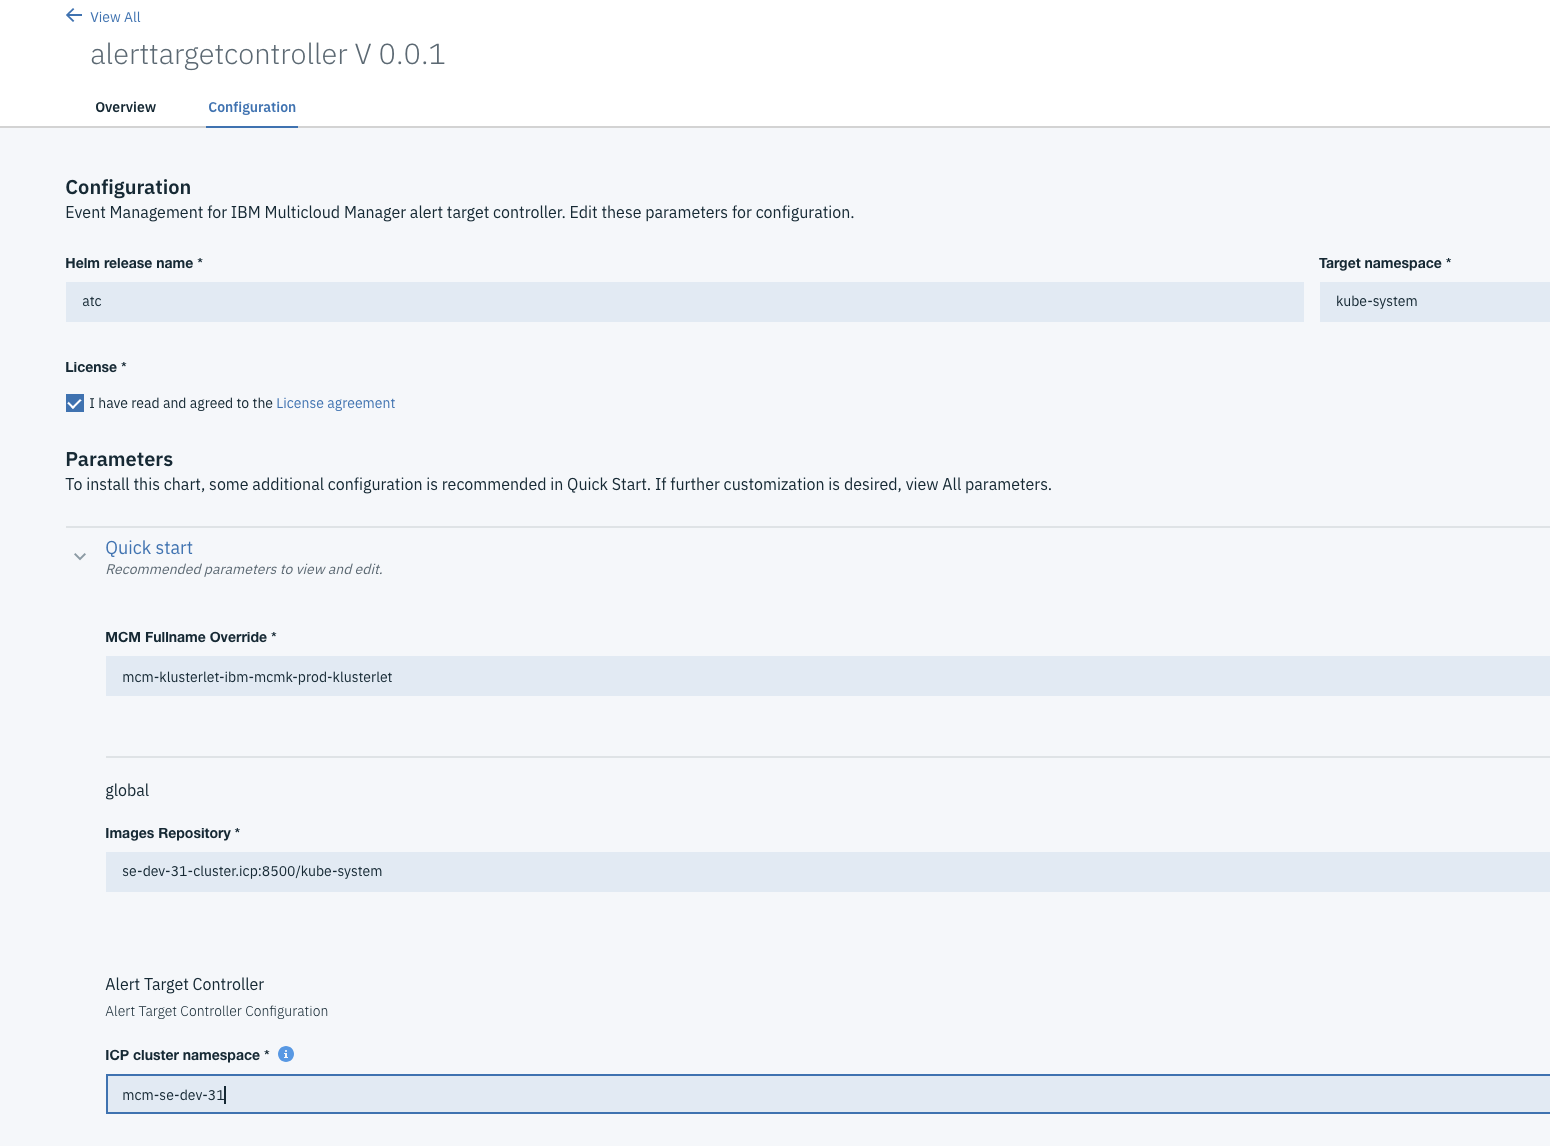
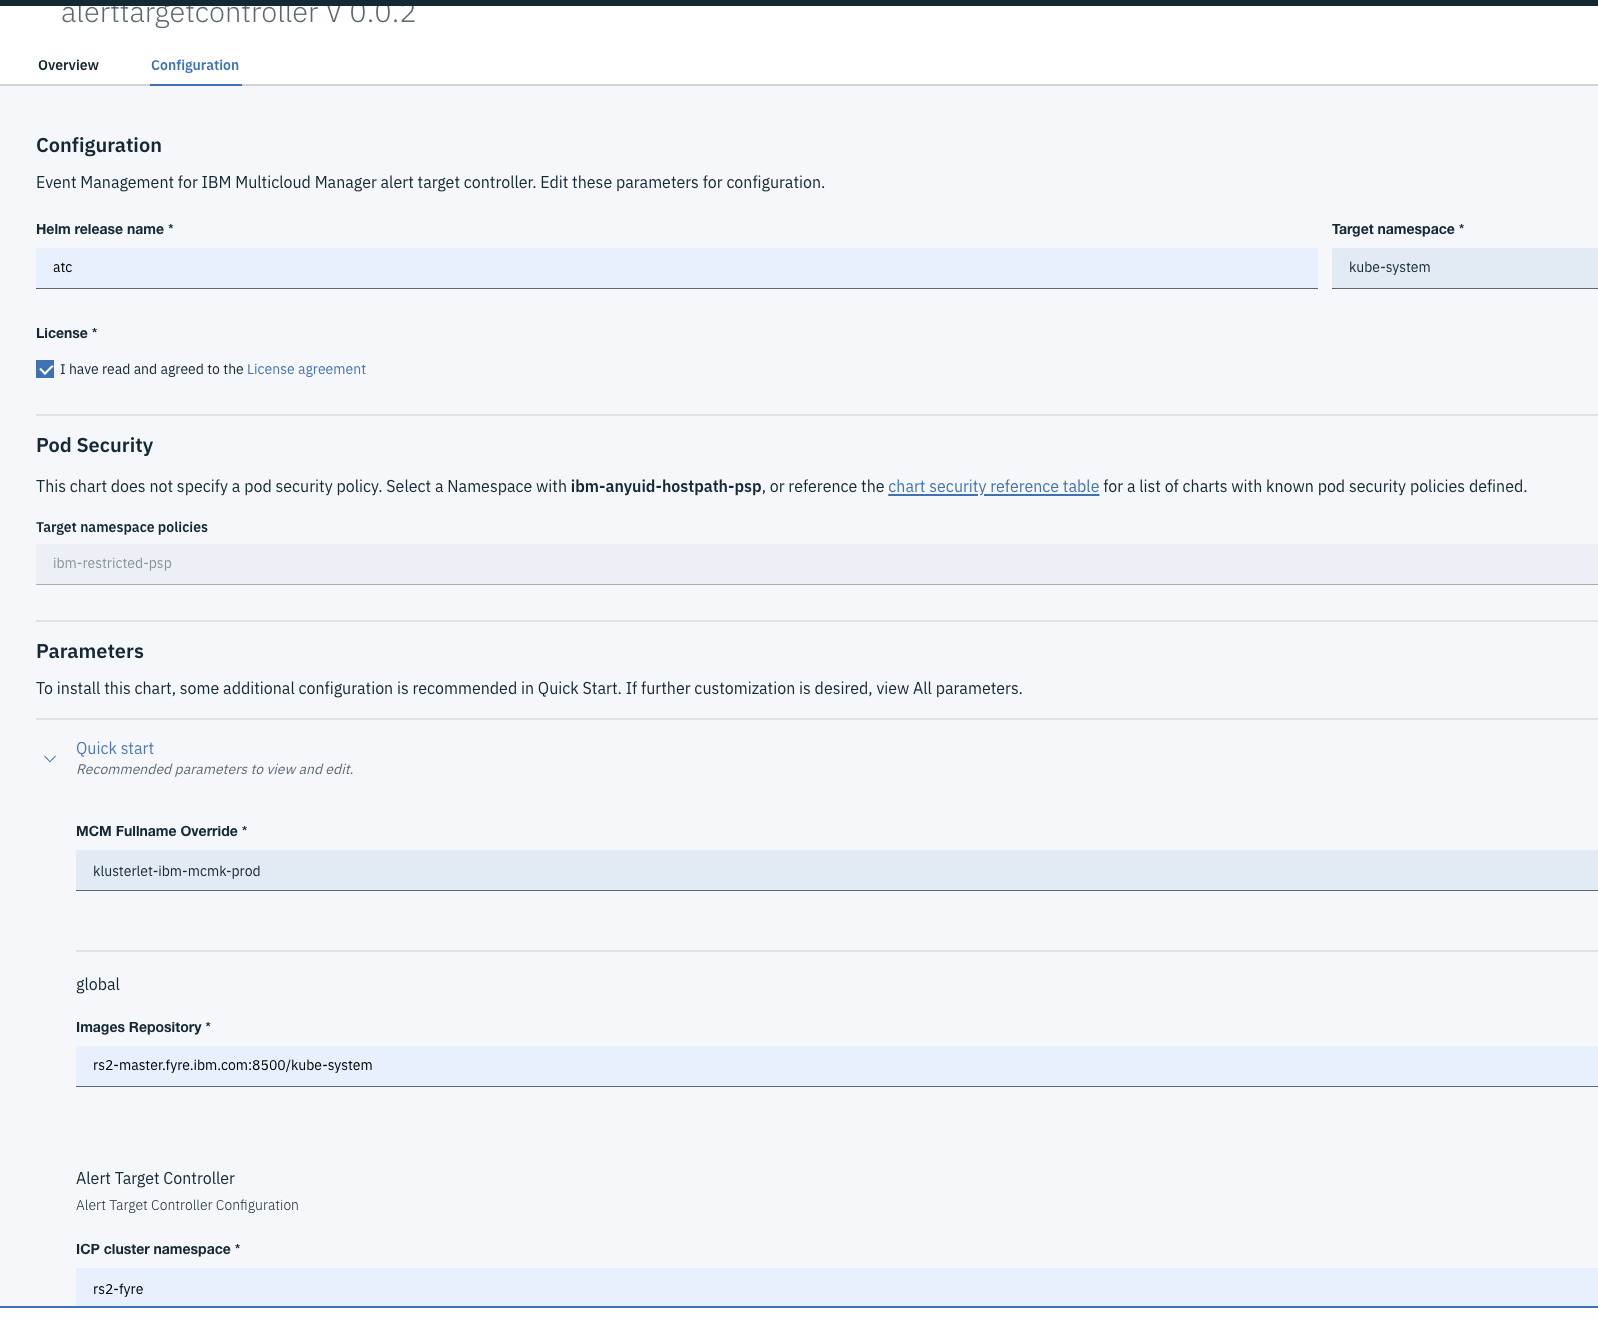
content update to MCM 3.1.2/CEM 2.2

diff --git a/cookbook/docs/mcm-monitoring-event-management.md b/cookbook/docs/mcm-monitoring-event-management.md
@@ -1,35 +1,47 @@
 # IBM Multicloud Manager - monitoring and event management
 **Author:** Rafal Szypulka (rafal.szypulka@pl.ibm.com)
 
-This chapter is focused on monitoring and event management features delivered by IBM Multicloud Manager.
+This chapter is focused on monitoring and event management features delivered by IBM Multicloud Manager 3.1.2.
 
 
-Check chapter [Day 2 operation with MCM](chapter8_day2operation.md) for broader description of Cloud Service Management and Operations aspects.
-
-
-  - [Overall MCM dashboard](#overall-dashboard)
+- [IBM Multicloud Manager - monitoring and event management](#ibm-multicloud-manager---monitoring-and-event-management)
+  - [Overall MCM dashboard](#overall-mcm-dashboard)
   - [MCM Application monitoring](#mcm-application-monitoring)
-     - [Metrics collection and visualization](#metrics-collection-and-visualization)
+    - [Metrics collection and visualization](#metrics-collection-and-visualization)
   - [IBM Cloud Event Management for IBM Multicloud Manager](#ibm-cloud-event-management-for-ibm-multicloud-manager)
-    - [Installing Event Management for IBM Multicloud Manager](#installing-event-management-for-ibm-multicloud-manager)
+    - [Installing the Cloud Event Management for IBM Multicloud Manager](#installing-the-cloud-event-management-for-ibm-multicloud-manager)
       - [Prerequisites](#prerequisites)
       - [Installation of the Cloud Event Management controller](#installation-of-the-cloud-event-management-controller)
       - [Installation of the Cloud Event Management for IBM Multicloud Manager](#installation-of-the-cloud-event-management-for-ibm-multicloud-manager)
-      - [First logon to CEM console](#first-logon-to-cem-console)
-      - [Cloud Event Management documentation](#cloud-event-management-documentation)
+    - [User management](#user-management)
+    - [First logon to the CEM console](#first-logon-to-the-cem-console)
+    - [Cloud Event Management documentation](#cloud-event-management-documentation)
 
 
 ## Overall MCM dashboard
 
-IBM Multicloud Manager Overview dashboard is available from the MCM menu: `Overview`. It shows general set of metrics collected from managed clusters:
+IBM Multicloud Manager Overview dashboard is available from the MCM menu: `Overview`. 
+You can view details of your IBM Cloud Private clusters and other cloud service providers supported by IBM Cloud Private. You can also view details about your applications. The Overview dashboard is continuously refreshed in real time.
 
-- Cluster Health
-- Helm Releases
-- Pod Health
-- Persistent Volume Health
-- CPU Health
-- Memory Health
-- Storage Capacity
+The following information about clusters is provided:
+
+- Name of the cloud service with the number of clusters
+- Cluster compliance
+- Pod details
+- Cluster status
+- Cluster resources (VCPU/Memory usage)
+- Storage usage
+
+You can also view the information about each application and clusters where this application has been deployed: 
+
+- Number of clusters
+- Number of Kubernetes types
+- Number of regions
+- Number of nodes
+- Number of pods
+
+The Overview page can be further personalized with the filtering feature. Click Filter results to specify what information is displayed on your page.
+
 
 ![](images/mcm-monitoring-event-management/mcm-overall.png)
 
@@ -47,54 +59,72 @@ A Grafana Dashboard for MCM applications is generated automatically for each dep
 ![](images/mcm-monitoring-event-management/mcm-grafana.png)
 
 MCM federated Prometheus is a data source for an application monitoring dashboard. MCM Controller installation deploys a federated Prometheus instance which will pull selected metric data from the Prometheus instances located on managed ICP clusters.
-Deployment name: `mcm-controller-ibm-mcm-controller-prometheus`
+Federated Prometheus deployment name: `mcm-controller-ibm-mcm-prod-prometheus`
 
 Initially, just after MCM installation, the MCM federated Prometheus instance doesn't collect any data. Its configuration is generated dynamically during application deployment via MCM.
 Target ICP clusters are added to the MCM federated Prometheus instance ConfigMap during application deployment.
 
-The example below, shows a dynamic update of the MCM federated Prometheus ConfigMap after deployment of the application to two ICP clusters:
+The example below shows a dynamic update of the MCM federated Prometheus ConfigMap after deployment of the application to three ICP clusters:
 
-```
-   scrape_configs:
-    - job_name: mcm-dynamic-se-prod-31
+```yaml
+    scrape_configs:
+    - job_name: mcm-dynamic-se-prod-312-ubuntu
       honor_labels: true
       params:
         match[]:
         - '{job="kubernetes-cadvisor"}'
       scrape_interval: 1m
       scrape_timeout: 30s
-      metrics_path: /federate
+      metrics_path: /apis/mcm.ibm.com/v1alpha1/namespaces/se-prod-312-ubuntu/clusterstatuses/se-prod-312-ubuntu/monitor/federate
       scheme: https
       static_configs:
       - targets:
-        - se-prod-31.prometheus.icp:443
+        - kubernetes.default:443
         labels:
-          cluster_name: se-prod-31
+          cluster_name: se-prod-312-ubuntu
+      bearer_token_file: /var/run/secrets/kubernetes.io/serviceaccount/token
       tls_config:
-        cert_file: /prometheus/hcm/mcm-dynamic-se-prod-31/tls.crt
-        key_file: /prometheus/hcm/mcm-dynamic-se-prod-31/tls.key
-        insecure_skip_verify: true
-    - job_name: mcm-dynamic-se-stg
+        ca_file: /var/run/secrets/kubernetes.io/serviceaccount/ca.crt
+        insecure_skip_verify: false
+    - job_name: mcm-dynamic-se-stg-312-ubuntu
       honor_labels: true
       params:
         match[]:
         - '{job="kubernetes-cadvisor"}'
       scrape_interval: 1m
       scrape_timeout: 30s
-      metrics_path: /federate
+      metrics_path: /apis/mcm.ibm.com/v1alpha1/namespaces/se-stg-312-ubuntu/clusterstatuses/se-stg-312-ubuntu/monitor/federate
       scheme: https
       static_configs:
       - targets:
-        - se-stg.prometheus.icp:443
+        - kubernetes.default:443
         labels:
-          cluster_name: se-stg
+          cluster_name: se-stg-312-ubuntu
+      bearer_token_file: /var/run/secrets/kubernetes.io/serviceaccount/token
       tls_config:
-        cert_file: /prometheus/hcm/mcm-dynamic-se-stg/tls.crt
-        key_file: /prometheus/hcm/mcm-dynamic-se-stg/tls.key
-        insecure_skip_verify: true
+        ca_file: /var/run/secrets/kubernetes.io/serviceaccount/ca.crt
+        insecure_skip_verify: false
+    - job_name: mcm-dynamic-se-dev-312-ubuntu
+      honor_labels: true
+      params:
+        match[]:
+        - '{job="kubernetes-cadvisor"}'
+      scrape_interval: 1m
+      scrape_timeout: 30s
+      metrics_path: /apis/mcm.ibm.com/v1alpha1/namespaces/se-dev-312-ubuntu/clusterstatuses/se-dev-312-ubuntu/monitor/federate
+      scheme: https
+      static_configs:
+      - targets:
+        - kubernetes.default:443
+        labels:
+          cluster_name: se-dev-312-ubuntu
+      bearer_token_file: /var/run/secrets/kubernetes.io/serviceaccount/token
+      tls_config:
+        ca_file: /var/run/secrets/kubernetes.io/serviceaccount/ca.crt
+        insecure_skip_verify: false
 ```
 
-The additional configuration instructs MCM federated Prometheus instance to collect selected (cAdvisor) metrics from two child ICP Prometheus instances, located respectively on two ICP clusters: `se-prod-31` and `se-stg`.
+In the example above, the generated configuration instructs MCM federated Prometheus instance to collect cAdvisor metrics from three child ICP Prometheus instances, located respectively on three ICP clusters: `se-prod-312-ubuntu`, `se-stg-312-ubuntu` and `se-dev-312-ubuntu`.
 More information about Prometheus federation mechanisms: [https://prometheus.io/docs/prometheus/latest/federation/](https://prometheus.io/docs/prometheus/latest/federation/).
 
 
@@ -103,23 +133,32 @@ More information about Prometheus federation mechanisms: [https://prometheus.io/
 IBM Cloud Event Management allows to set up a real-time incident management for the applications and infrastructure managed by the Multi Cloud Manager. Incidents are generated from events/alerts which indicate that something has happened on an application, service, or another monitored object.
 Cloud Event Management can receive events from various monitoring sources, either on premise or in the cloud.
 
-In the MCM environment, the CEM collects alerts from Prometheus instances located at each managed cluster. CEM for MCM automatically configures managed Prometheus Alertmanager instances to send alert notifications to the central CEM instance installed on MCM Controller.
+In the MCM environment, the CEM collects alerts from Prometheus instances located at each managed cluster. The Cloud Event Management Controller for MCM(deployed using `alerttargetcontroller` helm chart) automatically configures managed Prometheus Alertmanager instances to send alert notifications to the central CEM instance installed on MCM Controller.
 
-### Installing Event Management for IBM Multicloud Manager
+### Installing the Cloud Event Management for IBM Multicloud Manager
 
-You can download the IBM Cloud Event Management optional component for IBM Multicloud Manager from the IBM Passport Advantage website, then import PPA to the ICP container registry and deploy CEM charts. Install IBM Multicloud Manager on your hub-cluster and IBM Multicloud Manager Klusterlet on all clusters that you want to manage.
+The IBM Cloud Event Management for MCM is included inside IBM Multicloud Manager installation package. Unpack the MCM installation archive `mcm-3.1.2.tgz` and inside you will find two CEM PPA packages:
 
-Use the following [instructions](https://www.ibm.com/support/knowledgecenter/SSURRN/com.ibm.cem.doc/em_obtain_mcmppa.html) to download and install Cloud Event Management.
+- Could Event Management Controller - alerttargetcontroller-ppa-0.0.2.tar.gz
+- Cloud Event Management - cem-mcm-ppa-ibm-cem-2.2.0.tar.gz
 
-The following procedure describe installation and configuration steps on example ICP 3.1 cluster running MCM controller. The sequence of the steps is important.
+Load both PPA packages to the local container registry on MCM hub cluster and `alerttargetcontroller` on every managed cluster.
+
+```
+docker login <MCM-cluster-hostname>:8500
+cloudctl login -a https://<MCM-cluster-hostname>:8443 --skip-ssl-validation -n kube-system
+cloudctl catalog load-archive -a <ppa-archive> --registry <MCM-cluster-hostname>:8500/kube-system
+```
+
+The following procedure describes installation and configuration steps on example ICP 3.1.2 cluster running MCM controller. The sequence of the steps is important.
 
 #### Prerequisites
-- MCM Controller and MCM Klusterlet deployed on ICP 3.1 cluster
-- CEM PPA packages imported as per [instructions](https://www.ibm.com/support/knowledgecenter/SSURRN/com.ibm.cem.doc/em_obtain_mcmppa.html).
-- ICP user has a `Cluster administrator` role within a Team which has a resource management assigned to a managed cluster namespace.
+- MCM Controller and MCM Klusterlet deployed on MCM hub ICP 3.1.2 cluster and Kluesterlet deployed on managed ICP clusters.
+- CEM PPA packages imported as per instructions above.
+- CEM users have an `Administrator` role within a Team which has a resource management assigned to a managed cluster namespaces.
 
 #### Installation of the Cloud Event Management controller
-Deploy an alerttargetcontroller chart on MCM Contoller cluster in the `kube-system` namespace.
+Deploy an `alerttargetcontroller` chart on both MCM hub cluster and managed clusters in the `kube-system` namespace.
 
 ![](images/mcm-monitoring-event-management/alerttarget.png)
 `MCM Fullname Override` option can be obtained using:
@@ -127,27 +166,39 @@ Deploy an alerttargetcontroller chart on MCM Contoller cluster in the `kube-syst
 ```
 kubectl get po -n kube-system|grep klusterlet
 ```
-Copy the pod name part before the `klusterlet` word as on the picture below:
-
-![](images/mcm-monitoring-event-management/mcm-override.png)
-
-`ICP Cluster namespace` is the cluster namespace created during klusteret deployment. In our case the namespace name is `mcm-se-dev-31`. It can be obtained using:
+Copy the pod name part before the `klusterlet` word (`klusterlet-ibm-mcmk-prod` on the example below):
 
 ```
-kubectl get clusters --all-namespaces
-NAMESPACE             NAME              AGE
-mcm-se-dev-31         se-dev-31         1d
-mcm-se-prod-rhel-31   se-prod-rhel-31   1d
+# kubectl get po|grep klusterlet
+klusterlet-ibm-mcmk-prod-klusterlet-657958f69f-v7cw9              3/3     Running     0          30h
+klusterlet-ibm-mcmk-prod-weave-scope-49sxf                        1/1     Running     0          30h
+```
+
+`ICP Cluster namespace` is the cluster namespace created during klusterlet deployment. In our case the namespace name is `mcm-se-dev-31`. It can be obtained using:
+
+```
+# kubectl get clusters --all-namespaces
+NAMESPACE   NAME       ENDPOINTS                      STATUS   AGE
+rs3-fyre    rs3-fyre   rs3-master.fyre.ibm.com:8001   Ready    1d
+rs4-fyre    rs4-fyre   rs4-master.fyre.ibm.com:8001   Ready    1d
 ```
 After chart deployment, make sure the `alerttargetcontroller` pod is running.
 
+```
+# kubectl get pod -n kube-system|grep alerttarget
+atc-alerttargetcontroller-alerttargetcontroller-77f87fb77cx6fph   1/1     Running                 1          10h
+```
+
 #### Installation of the Cloud Event Management for IBM Multicloud Manager
 
-Deploy `ibm-cem` chart from the local-chart repo in the `kube-system` namespace on the MCM Controller cluster.
-![](images/mcm-monitoring-event-management/cem.png)
-In our setup we used ICP UI console IP address for both `ICP Master IP` and `Ingress Domain` options.
+Deploy `ibm-cem` chart you loaded together with CEM image to `local-charts` repository in the `kube-system` namespace on the MCM hub cluster. 
 
-After deployment, wait a couple of minutes to start all the CEM pods and run the following command to configure OIDC registration with IBM Cloud Private:
+>CEM chart provided with `ibm-charts` repository is a `Community Edition` version which is not designed to work with MCM.
+
+![](images/mcm-monitoring-event-management/cem.png )
+In our setup we used ICP UI console hostname for both `ICP Master IP` and `Ingress Domain` options.
+
+After deployment, wait a couple of minutes until all CEM pods are started and run the following command to configure OIDC registration with IBM Cloud Private:
 
 ```
 kubectl exec -n kube-system -t `kubectl get pods -l release=cem -n kube-system \
@@ -155,14 +206,18 @@ kubectl exec -n kube-system -t `kubectl get pods -l release=cem -n kube-system \
 | awk '{print $1}'` bash -- "/etc/oidc/oidc_reg.sh" "`echo $(kubectl get secret platform-oidc-credentials -o yaml -n kube-system \
 | grep OAUTH2_CLIENT_REGISTRATION_SECRET: | awk '{print $2}')`"
 ```
-Verify the alerttarget has been created:
+
+Verify the alerttargets CRD has been created:
 
 ```
-kubectl get alerttarget --all-namespaces
-NAMESPACE    NAME                   AGE
-mcm-se-dev   mcm-se-dev-se-dev-31   1d
+kubectl get alerttargets --all-namespaces
+NAMESPACE   NAME                AGE
+rs3-fyre    rs3-fyre-rs3-fyre   2h
+rs4-fyre    rs4-fyre-rs4-fyre   2h
 ```
-At this point the ConfigMaps for managed Prometheus: `monitoring-prometheus-alertmanager` and `monitoring-prometheus-alertrules` should be automatically updated by the alerttargetcontroller.
+
+At this point the Alertmanager ConfigMaps for Prometheus instances located on managed clusters: `monitoring-prometheus-alertmanager` should be automatically updated by the alerttargetcontroller.
+
 Verify it using:
 
 ```
@@ -191,18 +246,21 @@ and in the `receivers:` section you should see:
         http_config:
           tls_config:
             insecure_skip_verify: true
-        url: https://172.16.50.227:8443/norml/webhook/prometheus/se-team/6196999a-6c1c-43de-9769-ef9a5c7b0bad/jWa3zrTOSS_2p0zJYmHKQA3gA5HLADu7X-FgdDt8yz4
-    templates: []
+        url: https://rs4-master.fyre.ibm.com:8443/norml/webhook/prometheus/cem-1/695c8db7-344c-4af7-84f3-10f99eab440a/Snfok7F3_0ndxxxxxx762ZWnsMmnPtnLG69ID_rzctg
 ```
 
 Note, the CEM `url:` will be different in your environment.
 
-The CEM Alert Target Controller adds a couple of sample alert definitions to the `monitoring-prometheus-alertrules`  ConfigMap. This can be verified using:
+The CEM Alert Target Controller adds a couple of sample alert definitions to the `AlertRules` CRD. This can be verified using:
 
 ```
-kubectl edit cm monitoring-prometheus-alertrules -n kube-system
+# kubectl get alertrules
+NAME                           ENABLED   AGE   CHART                     RELEASE      ERRORS
+cem-alert-rules                true      2h
+(...)
 ```
-These alert rules can be customized to the local requirements. We recommend to add [best practice alert definitions for ICP platform](https://github.com/ibm-cloud-architecture/CSMO-ICP/tree/master/prometheus/alerts_prometheus2.x).
+
+These alert rules can be customized to the local requirements. We recommend to consider our [best practice alert definitions for ICP platform](https://github.com/ibm-cloud-architecture/CSMO-ICP/tree/master/prometheus/alerts_icp_3.1.2).
 
 Check the Prometheus Alertmanager logs to verify if there are no errors during sending webhook notifications to CEM.
 
@@ -210,9 +268,15 @@ Check the Prometheus Alertmanager logs to verify if there are no errors during s
 kubectl logs <alertmanager pod> -n kube-system
 ```
 
-#### First logon to CEM console
+### User management
 
-Cloud Event Management console can be accessed from the Multicloud Manager console. Logon to MCM UI as one of the Team (mentioned in the [prerequisites](#prerequisites) section) members and select `Event Management`.
+CEM console access is managed through ICP `Teams`Create an ICP `Team` on MCM hub cluster. Assign role `Administrator` to the users in the Team and add managed clusters namespaces as `Managed Resources`.
+
+![](images/mcm-monitoring-event-management/cem-team.png)
+
+### First logon to the CEM console
+
+Cloud Event Management console can be accessed from the Multicloud Manager console. Logon to MCM UI as one of the Team (mentioned in the [User Management](#user-management) chapter) members and select `Event Management`.
 
 ![](images/mcm-monitoring-event-management/cem-login.png)
 
@@ -220,12 +284,20 @@ You may be asked to authenticate again with the ICP user and you should see one 
 
 ![](images/mcm-monitoring-event-management/cem-subs.png)
 
-Example subscription `se-team` on the picture above is a name of the ICP team authorised to manage a cluster namespace.
+Example subscription `cem-1` on the picture above is a name of the ICP `Team` authorized to manage a cluster namespace.
 
-Click `Launch` and if some defined Prometheus alerts are active (you can verify it in the ICP console `Platform -> Alerting`), you should see incidents in CEM UI:
+Click `Launch` and then `Go to my Incidents`. If some defined Prometheus alerts are active (you can verify it via Prometheus Alertmanager UI available from the ICP console `Platform -> Alerting`), you should see incidents in CEM UI:
 
-![](images/mcm-monitoring-event-management/cem-incidents.png)
+![](images/mcm-monitoring-event-management/cem-incident.png)
 
-#### Cloud Event Management documentation
+Drill down to the `Event` list of selected Incident to see Prometheus alert details:
 
-More information about how to operate and use the Cloud Event Management: [Cloud Event Management documentation](https://www.ibm.com/support/knowledgecenter/SSURRN/com.ibm.cem.doc/index.html)
+![](images/mcm-monitoring-event-management/cem-event.png)
+
+Click on the `Generator URL` link to open the Prometheus UI on the managed cluster and see current result of the PromQL query that generated this alert:
+
+![](images/mcm-monitoring-event-management/cem-prom.png)
+
+### Cloud Event Management documentation
+
+More information about how to operate and use the Cloud Event Management: [Cloud Event Management documentation](https://www.ibm.com/support/knowledgecenter/SSURRN/com.ibm.cem.doc/index.html).
